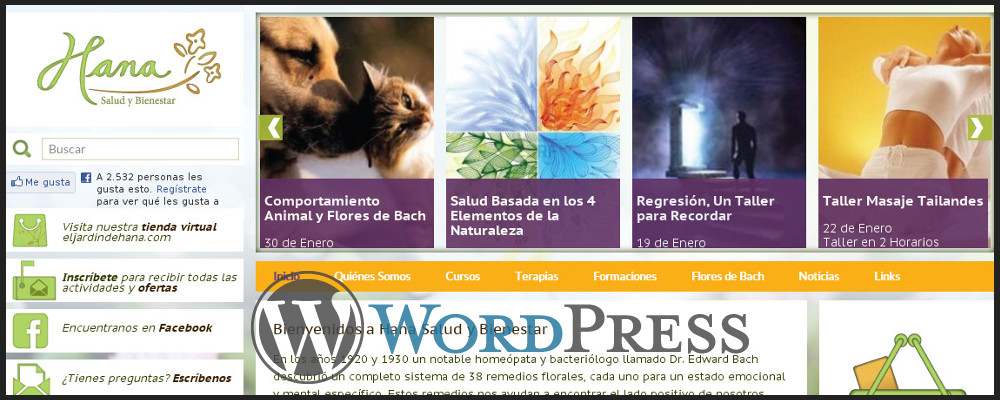
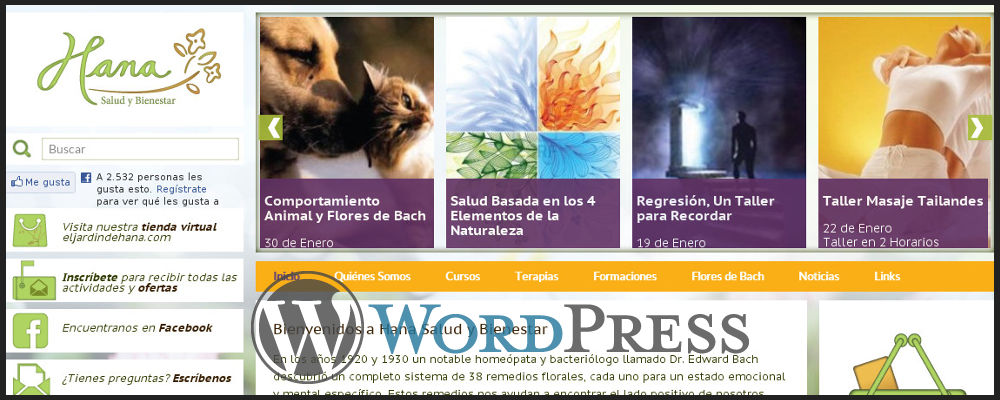
Fix responsive - add slider

diff --git a/templates/website/base_home.html b/templates/website/base_home.html
@@ -48,10 +48,10 @@
 	  		<div class="row">
 	    		<div class="twelve columns">
 		      		<div id="slider">
-		        		<img src="{{ STATIC_PREFIX }}images/hana_wordpress_slide.jpg" alt="Sitio web Hana Salud y Bienestar en Wordpress" />
-	    	    		<img src="http://placehold.it/1000x400&text=[img 2]" />
-	        			<img src="http://placehold.it/1000x400&text=[img 3]" />
-			       		<img src="http://placehold.it/1000x400&text=[img 4]" />
+	    	    		<img src="{{ STATIC_PREFIX }}images/davidvu_django_responsive_slide.jpg" alt="Portafolio David Velásquez en dJango - Responsive" />
+		        		<img src="{{ STATIC_PREFIX }}images/hana_wordpress_slide.jpg" alt="Sitio web Hana Salud y Bienestar en Wordpress - Responsive" />
+	        			<img src="{{ STATIC_PREFIX }}images/rokalflexpilates_wordpress_slide.jpg" alt="Sitio web rokalflex pilates en Wordpress" />
+			       		<img src="{{ STATIC_PREFIX }}images/bemark_wordpress_slide.jpg" alt="Sitio web Be Mark en Wordpress" />
 	      			</div>
 	    		</div>
 	  		</div>
